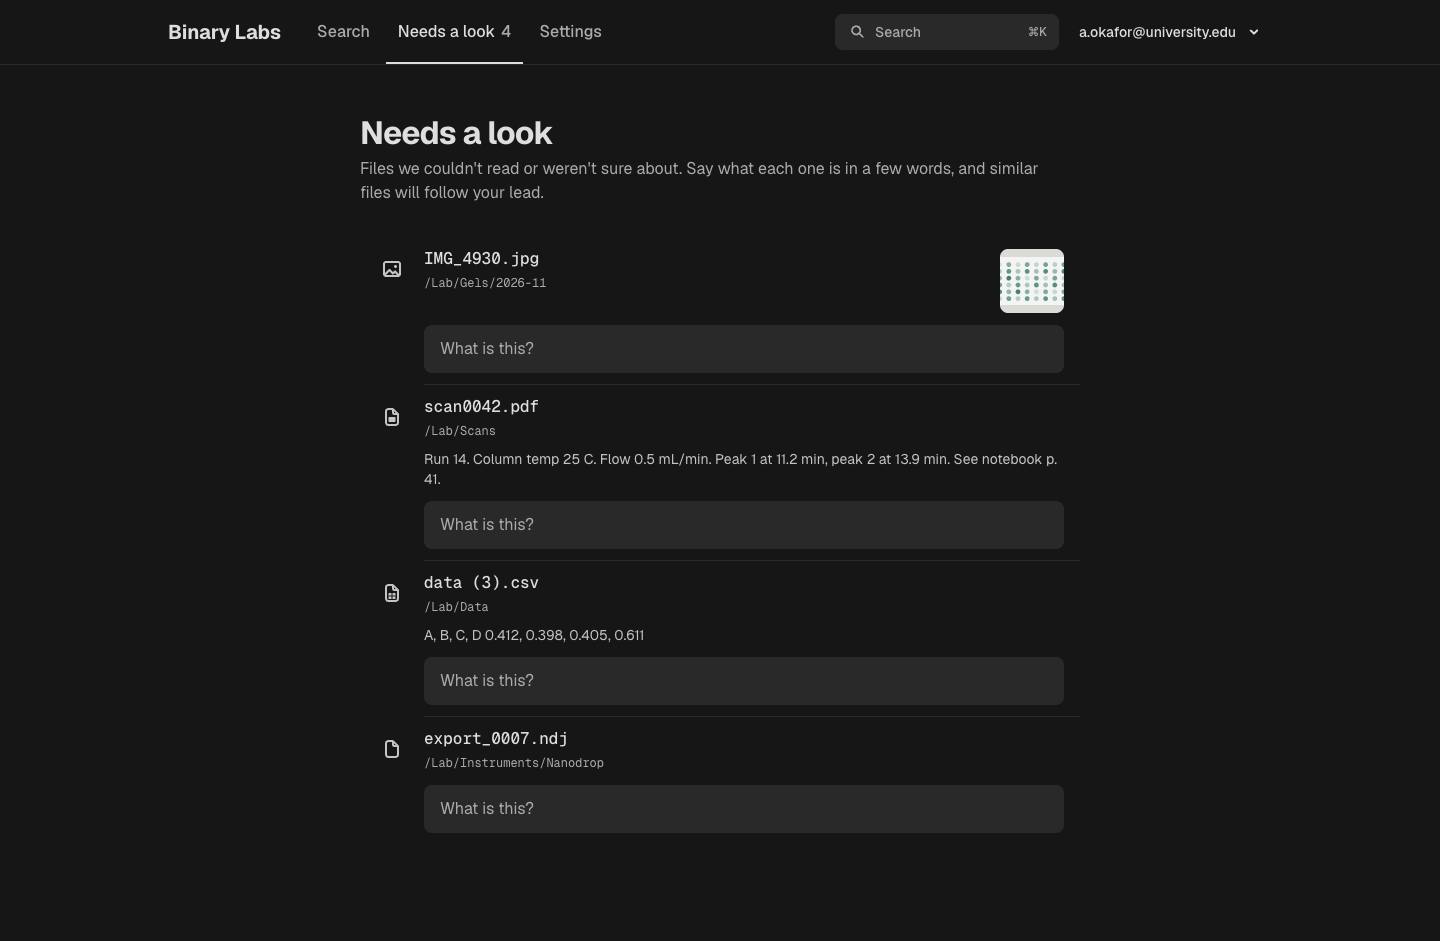
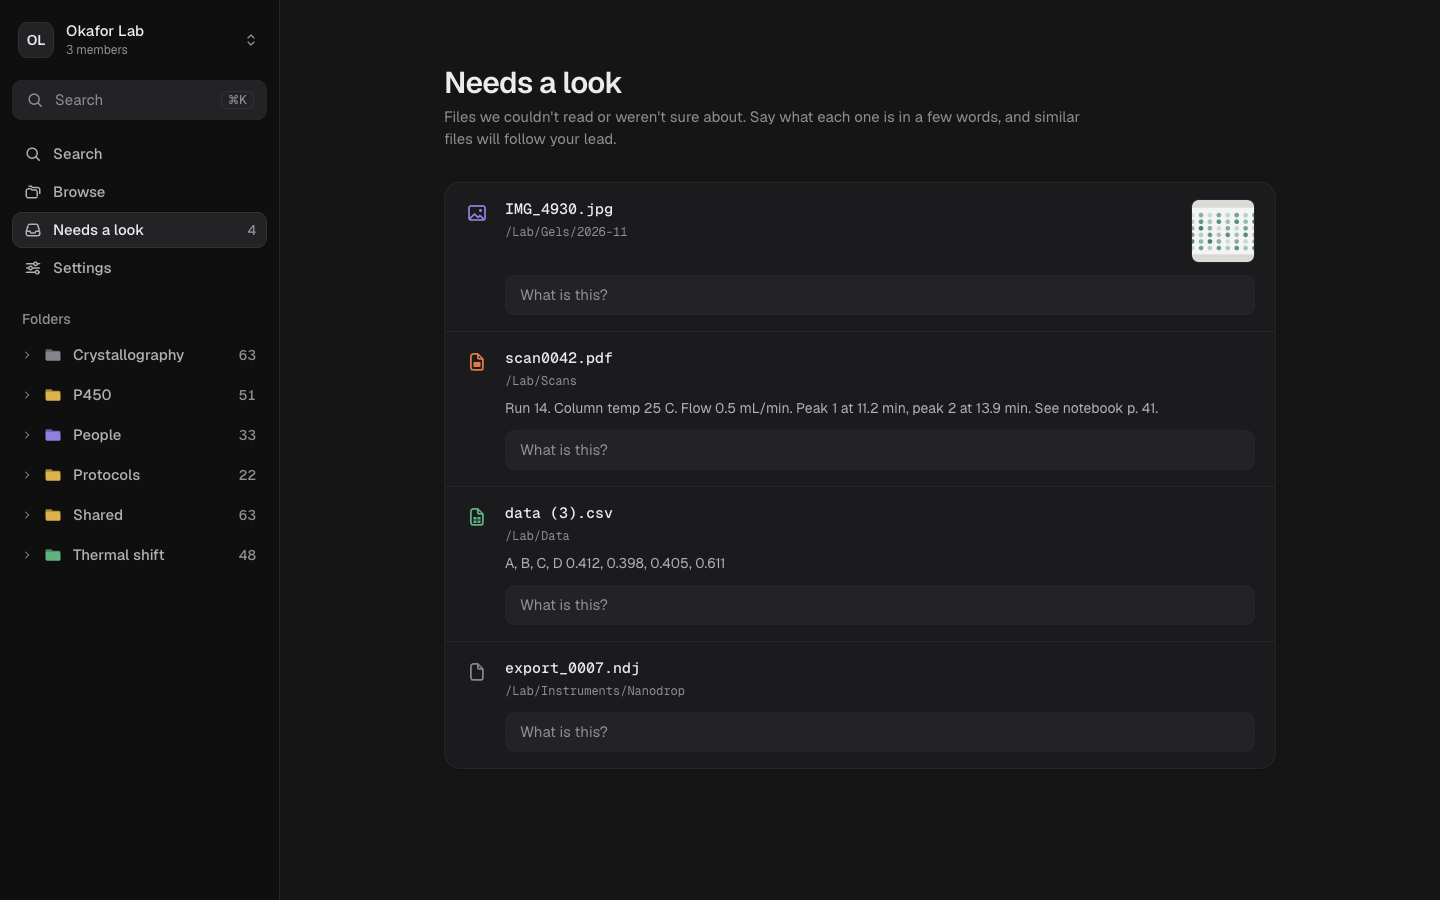
restyle labels, needs a look and lab lists

diff --git a/apps/web/src/app/needs-a-look/needs-look-view.tsx b/apps/web/src/app/needs-a-look/needs-look-view.tsx
@@ -2,16 +2,18 @@
 
 import { AnimatePresence, motion } from "motion/react";
 import { useId, useState } from "react";
-import { FILE_KIND_ICONS } from "@/components/icons/drawn";
+import { KindIcon } from "@/components/files/kind-icon";
 import { useLabApi } from "@/components/lab-api";
 import { LabelsProvider, useLabels } from "@/components/labels/labels-context";
+import { dataRow, dataSurface } from "@/components/ui/data-table";
 import { Input } from "@/components/ui/field";
+import { cn } from "@/lib/cn";
 import type { LabeledFileHit } from "@/lib/domain";
 import { folderOf } from "@/lib/format";
 
 export function NeedsLookView({ files }: { files: LabeledFileHit[] }) {
   return (
-    <div className="mx-auto w-full max-w-3xl px-4 pt-8 pb-24 sm:px-6 sm:pt-12">
+    <div className="mx-auto w-full max-w-4xl px-4 pt-8 pb-24 sm:px-8 sm:pt-16">
       <h1 className="text-heading-large">Needs a look</h1>
       <p className="mt-1 max-w-prose text-paragraph-medium text-content-tertiary">
         Files we couldn&apos;t read or weren&apos;t sure about. Say what each one is in a few words, and similar files will
@@ -34,9 +36,9 @@ function Queue({ files }: { files: LabeledFileHit[] }) {
         {waiting.length === 1 ? "1 file left" : `${waiting.length} files left`}
       </p>
       {waiting.length === 0 ? (
-        <p className="mt-10 text-paragraph-medium text-content-secondary">Nothing needs a look right now.</p>
+        <p className="mt-8 text-paragraph-medium text-content-secondary">Nothing needs a look right now.</p>
       ) : null}
-      <ul className="-mx-4 mt-8 sm:mx-0">
+      <ul className={cn(dataSurface, "mt-8", waiting.length === 0 && "hidden")}>
         <AnimatePresence initial={false}>
           {waiting.map((file) => (
             <motion.li
@@ -44,7 +46,7 @@ function Queue({ files }: { files: LabeledFileHit[] }) {
               initial={{ height: 0, opacity: 0 }}
               animate={{ height: "auto", opacity: 1 }}
               exit={{ height: 0, opacity: 0 }}
-              className="relative overflow-hidden after:absolute after:right-0 after:bottom-0 after:left-16 after:h-px after:bg-border-opaque last:after:hidden"
+              className={cn(dataRow, "overflow-hidden")}
             >
               <QueueRow file={file} />
             </motion.li>
@@ -62,14 +64,11 @@ function QueueRow({ file }: { file: LabeledFileHit }) {
   const [error, setError] = useState<string | null>(null);
   const id = useId();
   const [primary] = file.locations;
-  const KindIcon = FILE_KIND_ICONS[file.fileKind];
 
   return (
-    <div className="flex items-start">
-      <span className="flex h-16 w-16 shrink-0 items-center justify-center">
-        <KindIcon className="text-content-secondary" />
-      </span>
-      <div className="min-w-0 flex-1 py-3 pr-4">
+    <div className="flex items-start gap-4 py-4 pr-4 pl-4 sm:pr-5 sm:pl-5">
+      <KindIcon kind={file.fileKind} className="mt-0.5" />
+      <div className="min-w-0 flex-1">
         <div className="flex items-start gap-3">
           <div className="min-w-0 flex-1">
             <p className="truncate font-mono text-label-medium text-content-primary">{primary.originalName}</p>
@@ -84,7 +83,7 @@ function QueueRow({ file }: { file: LabeledFileHit }) {
               src={api.previewUrl(file.sha256, { view: false })}
               alt={`Preview of ${primary.originalName}`}
               loading="lazy"
-              className="size-14 shrink-0 rounded-lg bg-background-secondary object-cover sm:size-16"
+              className="size-14 shrink-0 rounded-lg border border-border-opaque bg-background-secondary object-cover sm:size-16"
             />
           ) : null}
         </div>

diff --git a/apps/web/src/components/labels/file-label.tsx b/apps/web/src/components/labels/file-label.tsx
@@ -30,10 +30,9 @@ const dayFormat = (iso: string) => formatDate(`${iso}T00:00:00Z`);
 // The row's toggle button sits underneath; everything here that takes clicks opts back in.
 const interactive = "pointer-events-auto relative";
 
-// Base Web Tag, small and secondary: 4px radius, gray50 on gray700. Phones get 32px tags
-// in rows 12px apart, with the hit area stretched to 44px.
+// Small gray tags. Phones get 32px tags in rows 12px apart, with the hit area stretched to 44px.
 const tagShape =
-  "inline-flex h-6 max-w-full items-center rounded-[4px] px-2 text-label-xsmall transition-colors duration-150 ease-out max-sm:h-8 max-sm:min-w-11 max-sm:justify-center max-sm:after:absolute max-sm:after:-inset-y-1.5 max-sm:after:inset-x-0";
+  "inline-flex h-6 max-w-full items-center rounded-md px-2 text-label-xsmall transition-colors duration-150 ease-out max-sm:h-8 max-sm:min-w-11 max-sm:justify-center max-sm:after:absolute max-sm:after:-inset-y-1.5 max-sm:after:inset-x-0";
 
 const tagInput = "h-6 w-44 px-1.5 text-label-xsmall max-sm:h-8 max-sm:text-paragraph-medium";
 
@@ -54,7 +53,7 @@ export function LabelTitle({ hit, label }: { hit: FileHit; label: Label | null }
       inputClassName="h-7 w-full px-1.5 text-label-medium max-sm:h-9"
       triggerClassName={cn(
         interactive,
-        "-mx-1 flex max-w-[calc(100%+8px)] rounded-[4px] px-1 text-left text-label-medium text-content-primary hover:bg-background-tertiary max-sm:after:absolute max-sm:after:-inset-y-3 max-sm:after:inset-x-0",
+        "-mx-1 flex max-w-[calc(100%+8px)] rounded-md px-1 text-left text-label-medium text-content-primary hover:bg-background-tertiary max-sm:after:absolute max-sm:after:-inset-y-3 max-sm:after:inset-x-0",
         !named && "font-mono",
       )}
       trigger={
@@ -113,7 +112,7 @@ export function LabelTags({ hit, label, expanded }: { hit: FileHit; label: Label
         triggerClassName={cn(
           interactive,
           tagShape,
-          "gap-1 pl-1 text-content-tertiary hover:bg-button-tertiary-hover hover:text-content-primary",
+          "gap-1 pl-1 text-content-tertiary hover:bg-background-tertiary hover:text-content-primary",
           !expanded && "max-sm:hidden pointer-coarse:hidden sm:opacity-0 sm:group-hover:opacity-100 sm:group-focus-within:opacity-100",
         )}
         trigger={

diff --git a/apps/web/src/components/labels/inline-edit.tsx b/apps/web/src/components/labels/inline-edit.tsx
@@ -92,7 +92,7 @@ export function InlineEdit({
           autoComplete="off"
           spellCheck={false}
           className={cn(
-            "min-w-0 rounded-[4px] border-2 border-border-selected bg-background-primary text-content-primary placeholder:text-content-tertiary focus-visible:outline-none",
+            "min-w-0 rounded-md border border-border-accent bg-background-raised text-content-primary ring-1 ring-border-accent placeholder:text-content-tertiary focus-visible:outline-none",
             inputClassName,
           )}
         />
@@ -103,7 +103,7 @@ export function InlineEdit({
               onRemove();
               close();
             }}
-            className="relative flex size-6 shrink-0 items-center justify-center rounded-[4px] text-content-secondary hover:bg-button-tertiary-hover max-sm:size-8 after:absolute after:-inset-2.5 sm:after:-inset-1"
+            className="relative flex size-6 shrink-0 items-center justify-center rounded-md text-content-secondary hover:bg-background-tertiary max-sm:size-8 after:absolute after:-inset-2.5 sm:after:-inset-1"
           >
             <DeleteIcon className="size-4" />
             <span className="sr-only">{removeLabel ?? "Remove"}</span>

diff --git a/apps/web/src/components/providers.tsx b/apps/web/src/components/providers.tsx
@@ -22,11 +22,11 @@ export function Providers({ children }: { children: ReactNode }) {
           unstyled: true,
           classNames: {
             toast:
-              "flex w-full min-w-[min(320px,calc(100vw-32px))] max-w-[540px] items-center gap-3 rounded-xl bg-background-inverse-secondary px-4 py-3.5 font-sans text-paragraph-medium text-content-inverse-primary shadow-deep-below",
+              "flex w-full min-w-[min(320px,calc(100vw-32px))] max-w-[540px] items-center gap-3 rounded-xl border border-border-raised bg-background-raised px-4 py-3 font-sans text-paragraph-medium text-content-primary shadow-deep-below",
             icon: "shrink-0",
             content: "min-w-0 flex-1",
             actionButton:
-              "-my-2 -mr-2 min-h-11 shrink-0 cursor-pointer rounded-lg px-3 text-label-medium text-content-inverse-primary underline underline-offset-4 hover:no-underline",
+              "-my-1.5 -mr-1.5 min-h-11 shrink-0 cursor-pointer rounded-control bg-background-secondary px-3 text-label-medium text-content-primary ring-1 ring-border-opaque ring-inset hover:bg-button-secondary-hover sm:min-h-8",
           },
         }}
       />
